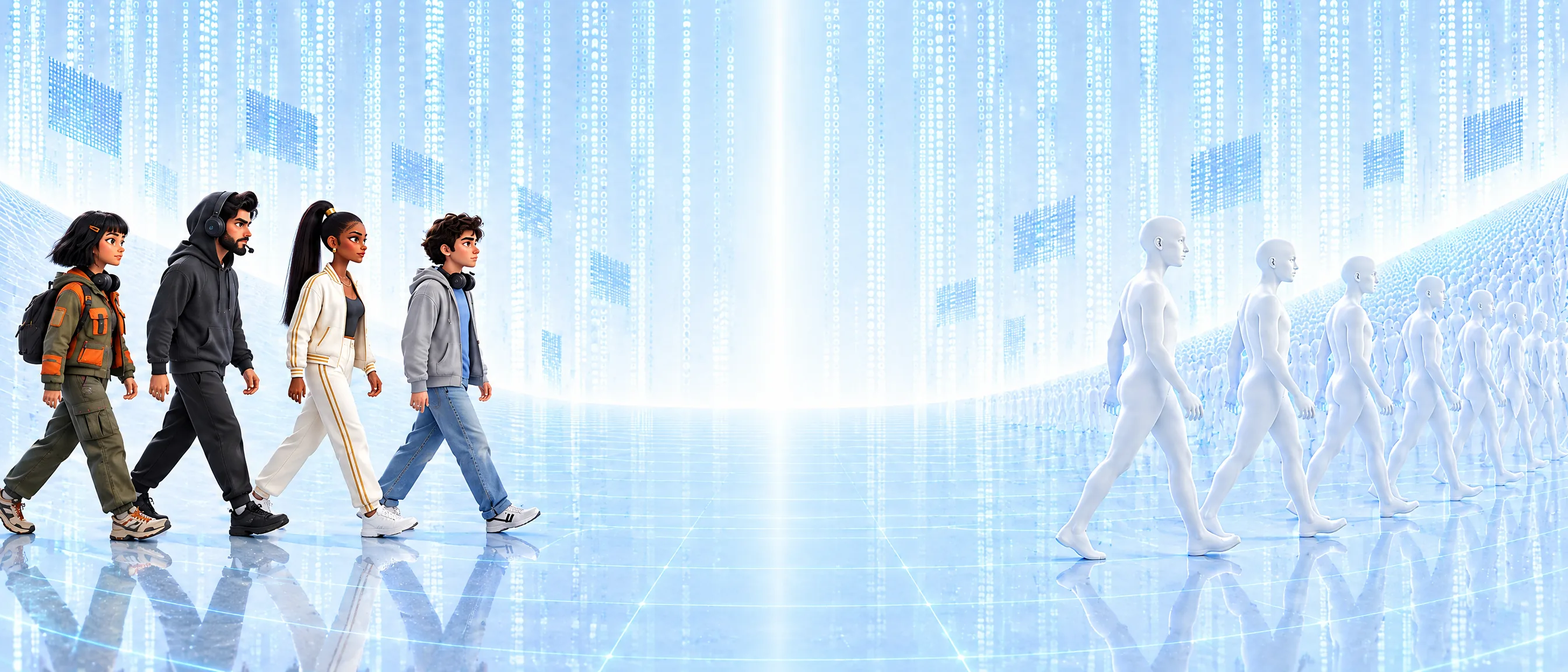
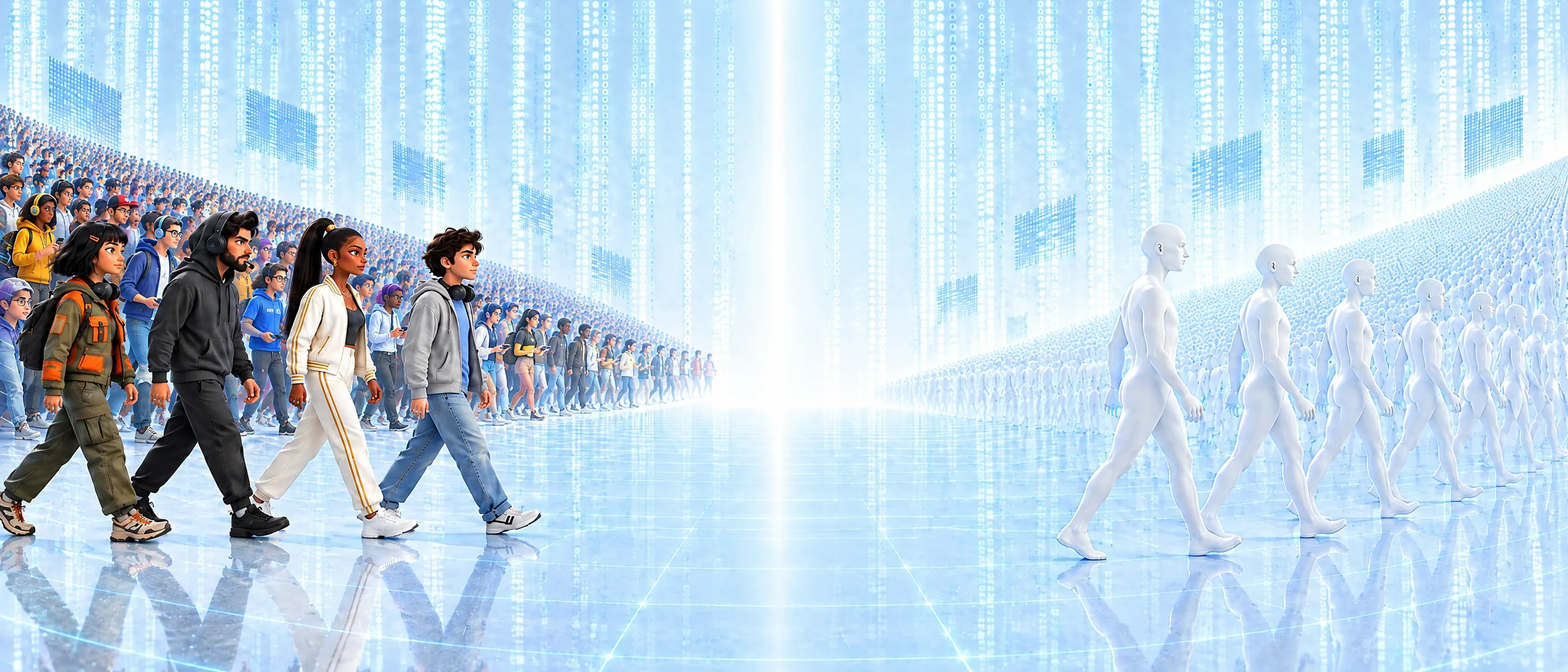
Footer copy line: a dense crowd of players behind the four too, mirroring the copies (K2)

diff --git a/src/components/website/CopyLine.tsx b/src/components/website/CopyLine.tsx
@@ -45,8 +45,8 @@ export function CopyLine() {
         <div className={FIT}>
           {/* eslint-disable-next-line @next/next/no-img-element -- a static, pre-sized image with its own srcset */}
           <img
-            src="/footer/copy-line.webp?v=3"
-            srcSet="/footer/copy-line-1344.webp?v=3 1344w, /footer/copy-line.webp?v=3 2688w"
+            src="/footer/copy-line.webp?v=4"
+            srcSet="/footer/copy-line-1344.webp?v=4 1344w, /footer/copy-line.webp?v=4 2688w"
             sizes="100vw"
             width={2688}
             height={1152}
